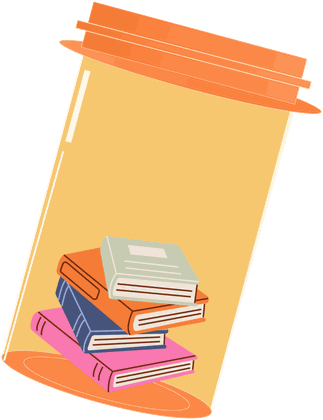
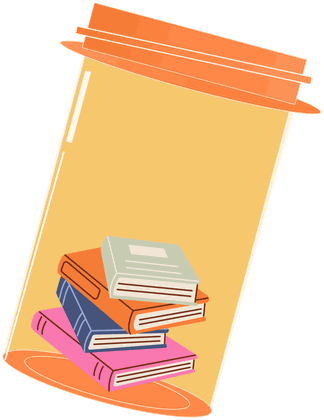
Cut the bottle mark from the lockup, not the third PDF page
Page three of the logo file isn't part of the logo set, so the footer
mark and the icons no longer come from it. They're now the pill bottle
cropped out of the stacked lockup on page one, rendered at 400dpi.

Claude-Session: https://claude.ai/code/session_01CEyTFWDS6fE3p4n2Uutiwp

diff --git a/index.html b/index.html
@@ -18,11 +18,12 @@
 
   <!-- ============================================================
        1. HEADER — logo, tagline, section nav
-       LOGO ASSETS (cut from the official logo PDF, transparent background):
-         assets/medlit-logo.png           primary stacked lockup — header
+       LOGO ASSETS — all cut from the two official lockups, transparent:
+         assets/medlit-logo.png           stacked lockup — header
          assets/medlit-logo-vertical.png  full lockup with tagline — hero
-         assets/medlit-bottle.png         bottle only — footer
-         assets/favicon.png               bottle only, square — browser tab
+         assets/medlit-bottle.png         bottle detail from the stacked
+                                          lockup — footer
+         assets/favicon.png               same bottle, square — browser tab
        The tagline beside the header logo is real HTML text as well as being
        part of the artwork, so screen readers and search engines get it.
        ============================================================ -->
@@ -230,7 +231,7 @@
 
       <div class="footer__brand">
         <img class="footer__mark" src="assets/medlit-bottle.png"
-             alt="" width="323" height="420">
+             alt="" width="324" height="420">
         <div>
           <p class="footer__name">MedLit</p>
           <p class="footer__tagline">health made understandable.</p>

diff --git a/README.md b/README.md
@@ -8,14 +8,15 @@ index.html                       the whole page
 styles.css                       the whole stylesheet
 assets/medlit-logo.png           stacked lockup — header
 assets/medlit-logo-vertical.png  full lockup with tagline — hero
-assets/medlit-bottle.png         pill bottle only — footer
+assets/medlit-bottle.png         bottle detail from the lockup — footer
 assets/favicon.png               browser tab icon
 assets/apple-touch-icon.png      iOS home-screen icon
 assets/guides/                   guide PDFs
 ```
 
-All four logo images were cut from the official artwork at print resolution
-with transparent backgrounds, so they sit on any background.
+All four are cut from the two official lockups at print resolution with
+transparent backgrounds, so they sit on any background. The footer mark and
+the favicon are the pill bottle taken out of the stacked lockup.
 
 ## Before you publish — one thing to swap
 
